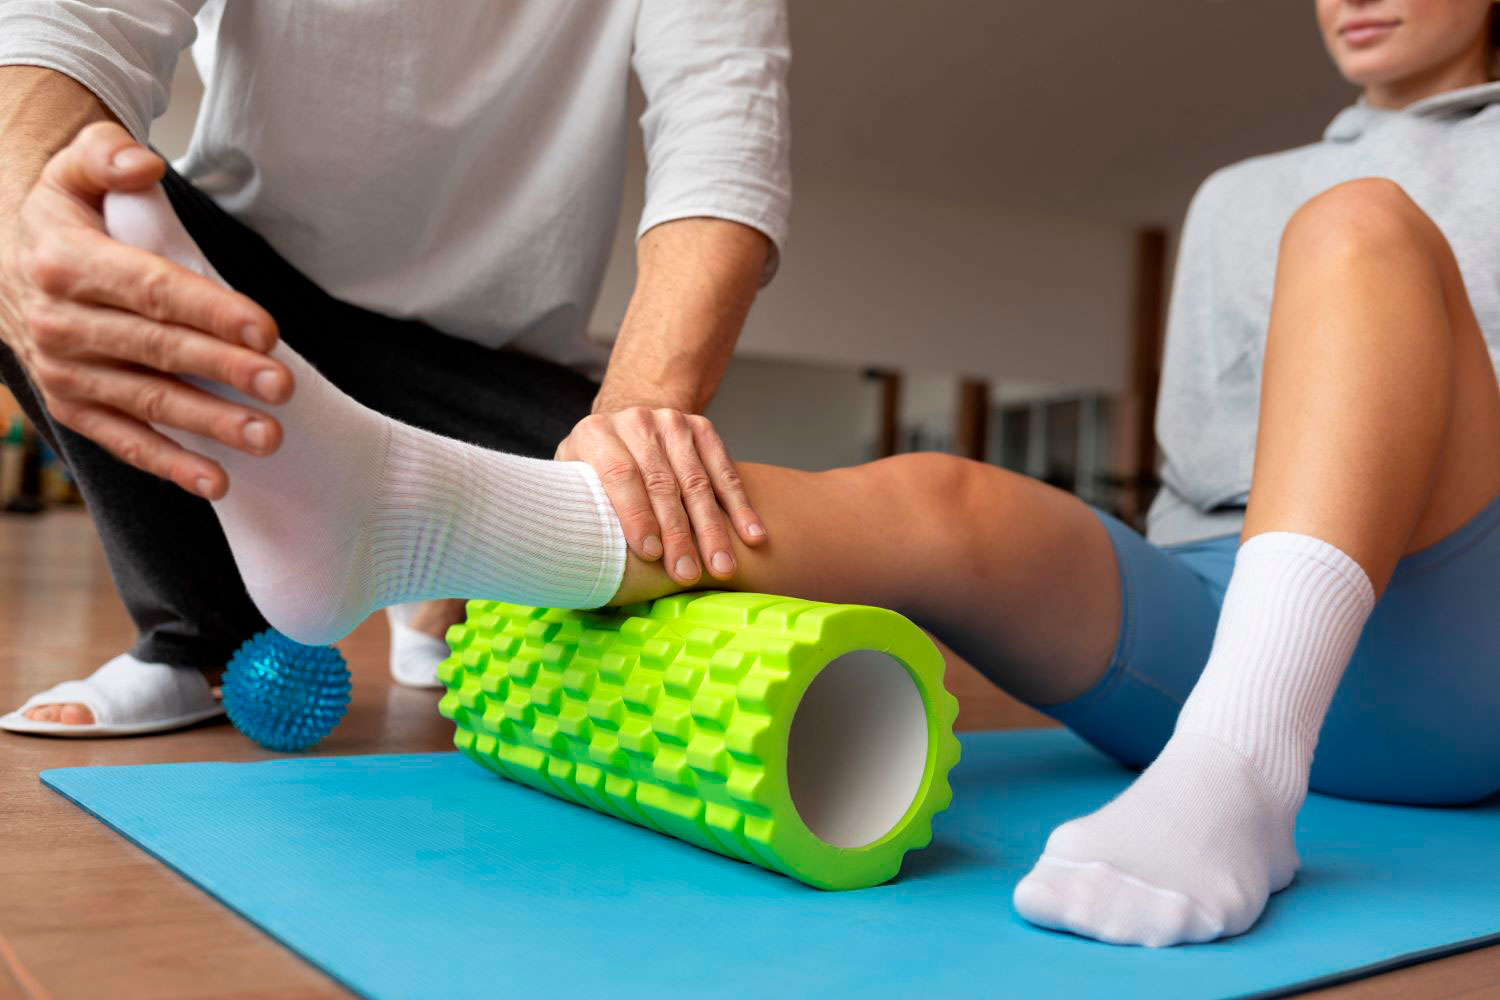
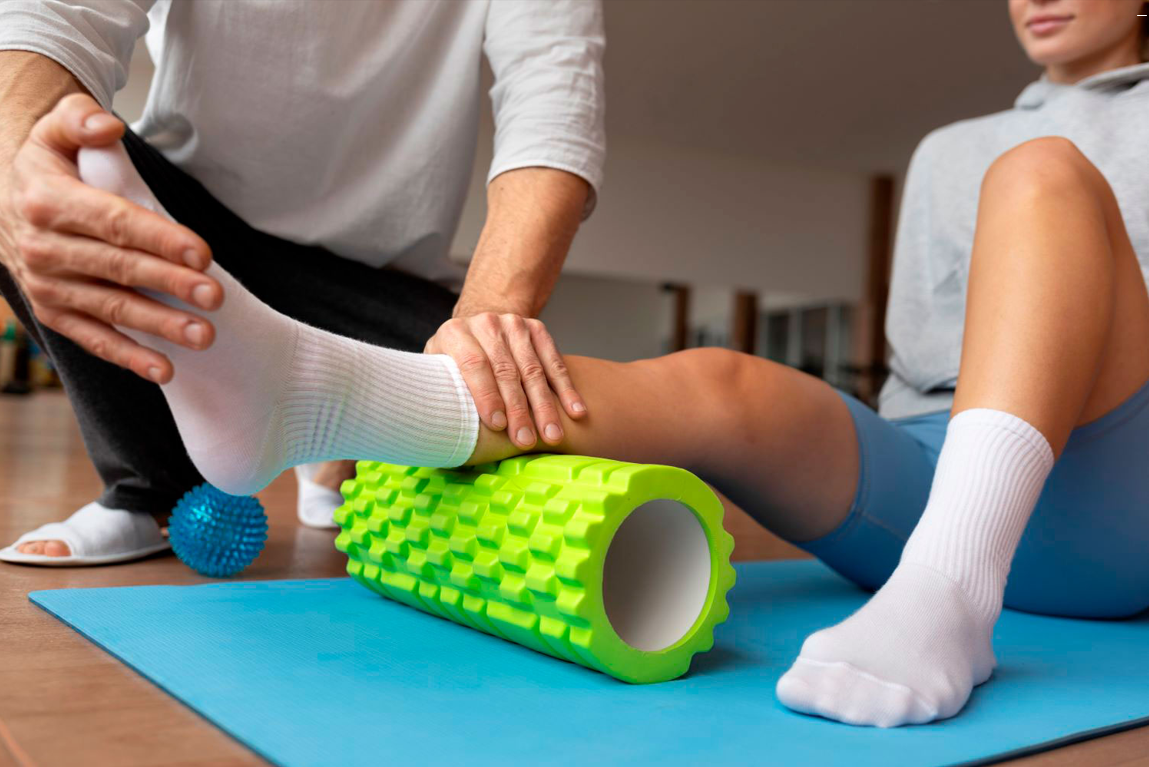
comprimindo iamgens

diff --git a/src/components/BaseParaCursos.jsx b/src/components/BaseParaCursos.jsx
@@ -8,13 +8,13 @@ export default function Base(props) {
   return (
     <MenuNavegacao>
     <div className={`
-    bg-gradient-to-r from-blue-200 to-red-300
+    bg-[#122E72]
     h-full w-full flex flex-col items-center
     `}>
     <div className={`flex flex-col gap-4 md:w-[60%] w-[95%] justify-center items-center`}>
-        <div className={`w-[100%] border pb-4 rounded-xl bg-white flex-col justify-center items-center shadow-xl mt-8`}>
-            <div className="relative">
-            <Image alt='Imagem do curso' src={props.urlImagem} width={500} height={500} className="rounded-t-xl shadow-md"/>
+        <div className={`w-[100%] max-w-[530px] border pb-4 rounded-xl bg-white flex-col justify-center items-center shadow-xl mt-8`}>
+            <div className="flex justify-center items-center">
+                <iframe className='rounded-t-xl border-[0px]' width="560" height="315" src={props.linkVideo} title="YouTube video player"></iframe>
             </div>
             {/* Refatorar itens (criar componentes) */}
             <h1 className="text-2xl font-bold my-3 text-center">{props.nomeDoCurso}</h1>

diff --git a/src/components/Menu/MenuNavegacao.jsx b/src/components/Menu/MenuNavegacao.jsx
@@ -22,7 +22,7 @@ export default function MenuNavegacao(props) {
         flex md:flex-row flex-col justify-between items-center p-4 border-b-2 border-green-100 shadow-lg
       `}>
         <div className='flex flex-row justify-center items-center w-[100%] md:w-auto pb-3'>
-          <Link href="/" className='flex items-center justify-center'><Image alt='Logo Centro Universo Salvador' className='mt-5' style={{textShadow: '2px 2px 4px rgba(0, 0, 0, 0.5)'}} src="/img/centroUniversoSalvador.png" width={310} height={50}/></Link>
+          <Link href="/" className='flex items-center justify-center'><Image alt='Logo Centro Universo Salvador' className='mt-5' style={{textShadow: '2px 2px 4px rgba(0, 0, 0, 0.5)'}} src="/img/centroUniversoSalvador2.png" width={310} height={50}/></Link>
           <div className=''>
            {/*  <button onClick={() => { toggleMenu() }}>{toggle ? <IconX size={40} /> : <IconMenu2 size={40} />}</button> */}
              {/*  <Link className=' w-[70px] h-[70px] md:w-auto p-2

diff --git a/src/pages/index.jsx b/src/pages/index.jsx
@@ -60,7 +60,7 @@ export default function Home() {
   return (
   <MenuNavegacao>
     <div className={`
-    h-full w-full flex flex-col items-center bg-[#054AA9]
+    h-full w-full flex flex-col items-center bg-[#122E72]
     `}>
       <div className={` w-[90%] bg-white mt-8 p-4 rounded-2xl
       flex flex-col justify-center items-center

diff --git a/src/pages/fisioterapia.jsx b/src/pages/fisioterapia.jsx
@@ -10,6 +10,7 @@ export default function direito() {
         matrizCurricular="http://gradecurricular.universo.edu.br/19_303AN.pdf"
         urlImagem="/img/curso/fisioterapia.png"
         turno="Matutino / Noturno"
+        linkVideo="https://www.youtube.com/embed/svK6MI45mLk"
     />
   )
 }

diff --git a/src/pages/odontologia.jsx b/src/pages/odontologia.jsx
@@ -10,6 +10,7 @@ export default function direito() {
         matrizCurricular="http://gradecurricular.universo.edu.br/19_309AN.pdf"
         urlImagem="/img/curso/odontologia.png"
         turno="Diurno / Noturno"
+        linkVideo="https://www.youtube.com/embed/FZCjsKrY3Uc"
     />
   )
 }

diff --git a/src/pages/direito.jsx b/src/pages/direito.jsx
@@ -10,6 +10,7 @@ export default function direito() {
         matrizCurricular="http://gradecurricular.universo.edu.br/19_206AN.pdf"
         urlImagem="/img/curso/direito.png"
         turno="Matutino / Noturno"
+        linkVideo="https://www.youtube.com/embed/coRfIc4EuVE"
     />
   )
 }

diff --git a/src/pages/psicologia.jsx b/src/pages/psicologia.jsx
@@ -10,6 +10,7 @@ export default function psicologia() {
         matrizCurricular="http://gradecurricular.universo.edu.br/19_310AN.pdf"
         urlImagem="/img/curso/psicologia.png"
         turno="Noturno"
+        linkVideo="https://www.youtube.com/embed/xKfQE9Bs8Iw"
     />
   )
 }

diff --git a/src/pages/enfermagem.jsx b/src/pages/enfermagem.jsx
@@ -10,6 +10,7 @@ export default function direito() {
         matrizCurricular="http://gradecurricular.universo.edu.br/19_306AN.pdf"
         urlImagem="/img/curso/enfermagem.png"
         turno="Noturno"
+        linkVideo="https://www.youtube.com/embed/fVXLMJ1Bb6Y"
     />
   )
 }

diff --git a/src/pages/biomedicina.jsx b/src/pages/biomedicina.jsx
@@ -10,6 +10,9 @@ export default function direito() {
         matrizCurricular=""
         urlImagem="/img/curso/biomedicina.png"
         turno="Noturno"
+        linkVideo="https://www.youtube.com/embed/sXDJXdWUKj8"
     />
   )
 }
+
+// https://www.youtube.com/embed/sXDJXdWUKj8
